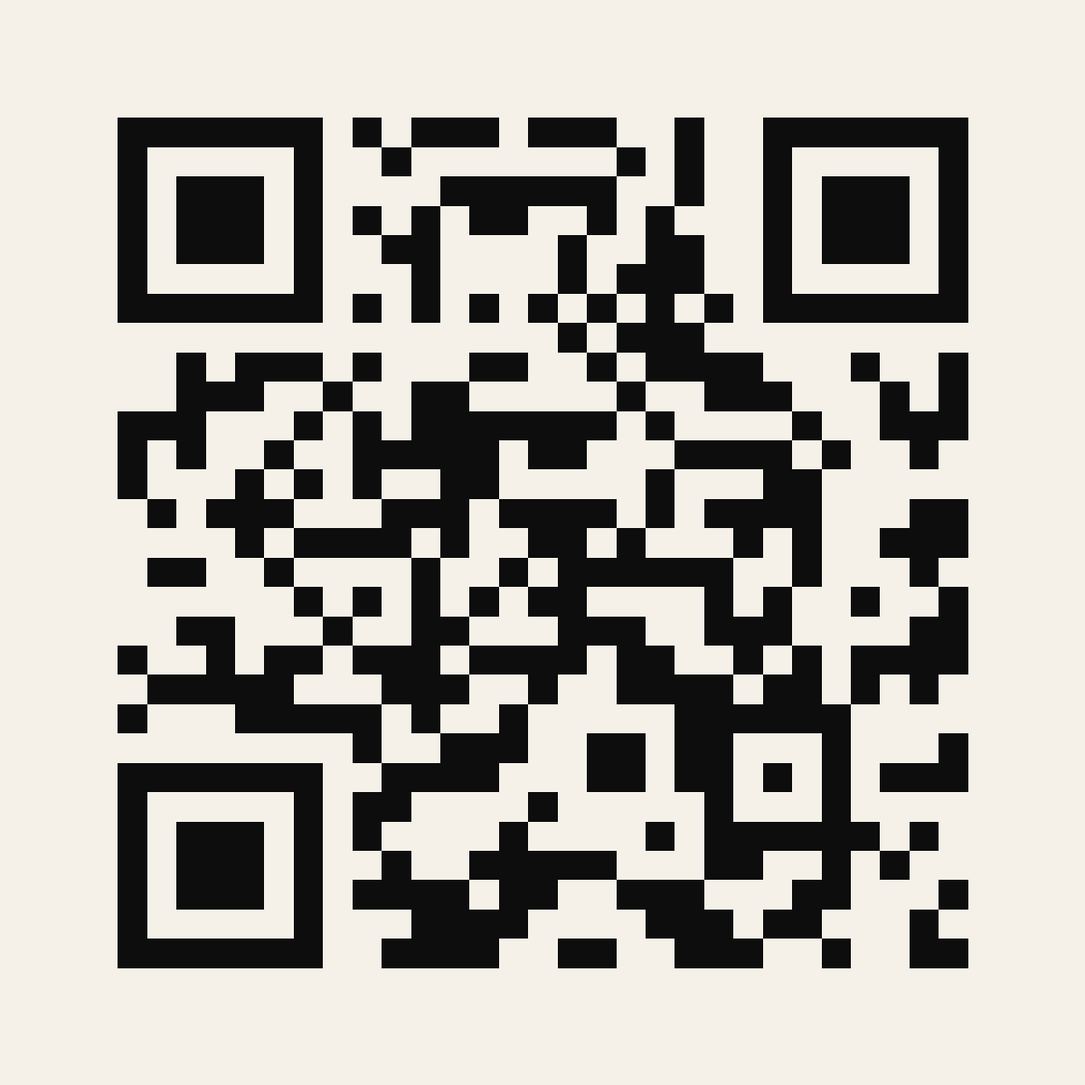
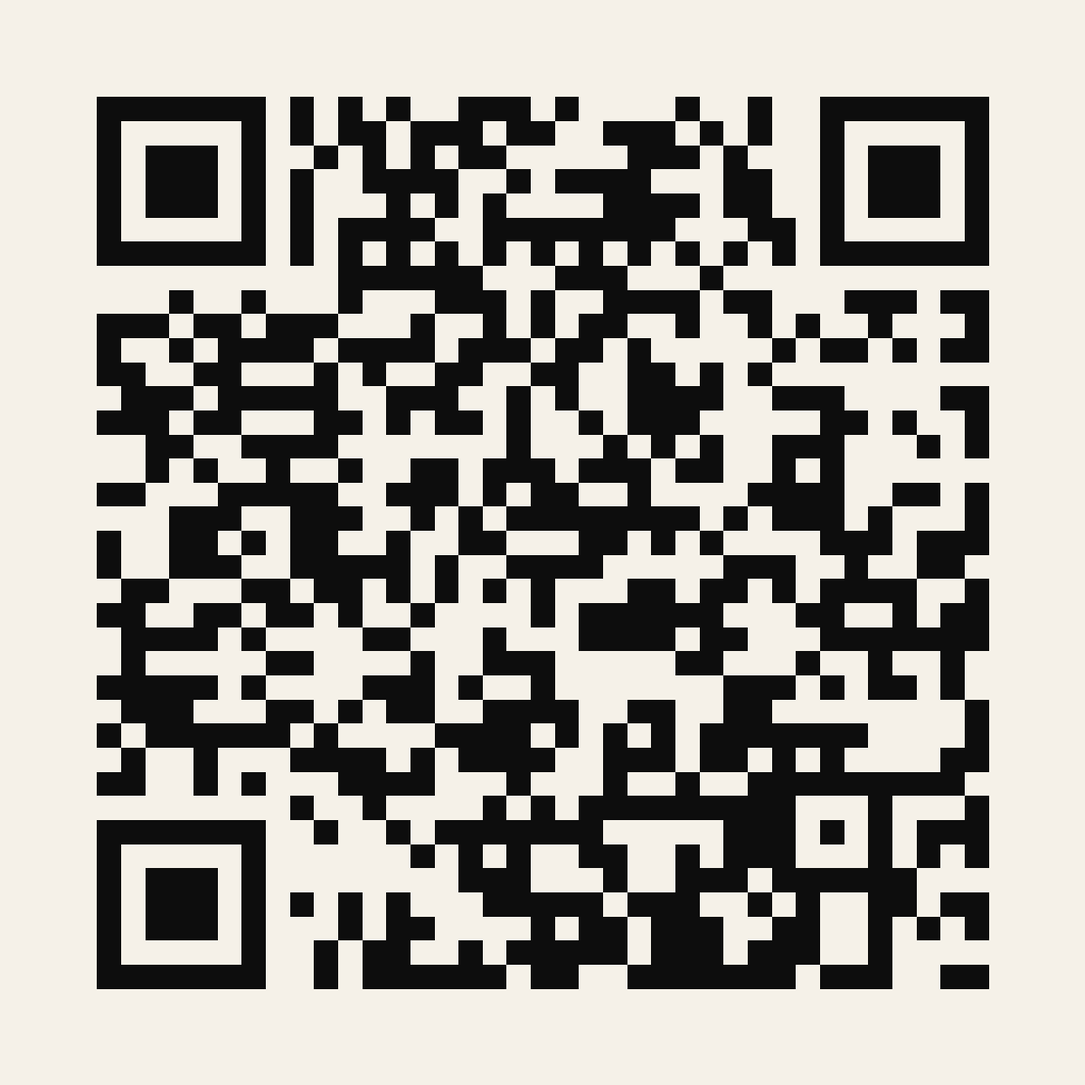
chore: finalize launch branding and content

diff --git a/src/content/es/site.ts b/src/content/es/site.ts
@@ -11,13 +11,13 @@ export const es = {
     helper: "¿Listo para pedir? Completa tu pedido para retiro de forma segura a través de Clover.",
   },
   hero: { eyebrow: "Argentine Grill & Bakery", title: [{ text: "El sabor", style: "default" }, { text: "argentino", style: "argentina" }, { text: "empieza en", style: "gold" }, { text: "el fuego.", style: "gold" }], description: "Parrilla, panadería y café hechos con tiempo, oficio y ese espíritu que convierte cada mesa en un encuentro.", primary: "Explora el menú", secondary: "Pedir para retirar" },
-  essence: { eyebrow: "Nuestra esencia", title: "Fuego, harina y tiempo.", body: "Celebramos una cocina honesta que nace de las brasas y continúa en el horno: cortes a la parrilla, empanadas, panes artesanales, café y mate para compartir.", quote: "La cocina no termina cuando sale el plato. Termina cuando la mesa se llena.", quoteBy: "Espíritu G.O.A.T. · Texto editorial pendiente de aprobación", pillars: [["Brasas", "Fuego real, tiempo preciso y sabores que hablan por sí solos."], ["Masa", "El oficio paciente de amasar, fermentar y hornear cada día."], ["Encuentro", "La mesa como lugar de pausa, conversación y comunidad."]] },
+  essence: { eyebrow: "Nuestra esencia", title: "Fuego, harina y tiempo.", body: "Celebramos una cocina honesta que nace de las brasas y continúa en el horno: cortes a la parrilla, empanadas, panes artesanales, café y mate para compartir.", quote: "La cocina no termina cuando sale el plato. Termina cuando la mesa se llena.", quoteBy: "G.O.A.T. Argentine Grill & Bakery", pillars: [["Brasas", "Fuego real, tiempo preciso y sabores que hablan por sí solos."], ["Masa", "El oficio paciente de amasar, fermentar y hornear cada día."], ["Encuentro", "La mesa como lugar de pausa, conversación y comunidad."]] },
   flavours: { eyebrow: "Lo que nos mueve", title: "Sabores con historia.", body: "De las brasas al horno, una mesa argentina donde hay lugar para todos.", items: ["Parrilla", "Empanadas", "Panadería", "Café y mate"] },
   story: { eyebrow: "Una mesa para compartir", title: "Tradición argentina, servida a nuestra manera.", body: "G.O.A.T. reúne el carácter de la parrilla con la calidez de una panadería de barrio. Cada detalle invita a bajar el ritmo, comer bien y sentirse parte." },
   promotions: { eyebrow: "Lo que está pasando", title: "Promociones y eventos.", viewAll: "Ver todo", empty: "No hay promociones ni eventos activos en este momento.", promotion: "Promoción", event: "Evento" },
-  visit: { eyebrow: "Ven a conocernos", title: "Tu lugar en la mesa.", address: "Dirección", hours: "Horarios", contact: "Contacto", pending: "Pendiente de confirmación del cliente." },
-  contact: { title: "Contáctanos", intro: "Envíanos un mensaje y nuestro equipo responderá lo antes posible.", name: "Nombre", email: "Correo electrónico", phone: "Teléfono (opcional)", subject: "Asunto", message: "Mensaje", consent: "Acepto que G.O.A.T. use estos datos para responder mi consulta.", submit: "Enviar mensaje", sending: "Enviando…", success: "Gracias, tu mensaje fue enviado.", genericError: "No pudimos enviar tu mensaje. Inténtalo nuevamente.", configError: "El correo de contacto aún no está configurado.", validation: "Revisa los campos indicados.", subjectOptions: ["Consulta general", "Evento privado", "Panadería", "Otro"] },
-  menu: { eyebrow: "La carta G.O.A.T.", title: "Menú restaurante", intro: "Explora nuestra selección actual. Los productos y precios fueron transcritos del PDF del cliente y pueden cambiar.", logoAlt: "Logo oficial de G.O.A.T. Argentine Grill & Bakery", restaurant: "Restaurante", bakery: "Panadería", index: "Ver categorías", pdf: "Ver / Descargar PDF", share: "Compartir menú", shared: "Enlace copiado", qrTitle: "Escanea para ver el menú", qrBody: "Abre la carta directamente en tu teléfono.", qrAlt: "Código QR para abrir la carta web de G.O.A.T.", qrDevelopment: "Solo desarrollo: este QR usa la URL provisional del sitio.", bakeryTitle: "Selección de panadería", bakeryBody: "Estamos preparando nuestro catálogo de panadería. Publicaremos aquí la selección confirmada próximamente.", provisional: "Traducción pendiente de aprobación del cliente" },
+  visit: { eyebrow: "Ven a conocernos", title: "Tu lugar en la mesa.", address: "Dirección", hours: "Horarios", contact: "Contacto", hoursComingSoon: "Horarios próximamente." },
+  contact: { title: "Contáctanos", intro: "Envíanos un mensaje y nuestro equipo responderá lo antes posible.", name: "Nombre", email: "Correo electrónico", phone: "Teléfono (opcional)", subject: "Asunto", subjectPlaceholder: "Selecciona un asunto", message: "Mensaje", consent: "Acepto que G.O.A.T. use estos datos para responder mi consulta.", submit: "Enviar mensaje", sending: "Enviando…", success: "Gracias, tu mensaje fue enviado.", genericError: "No pudimos enviar tu mensaje. Inténtalo nuevamente.", configError: "El formulario no está disponible temporalmente. Escríbenos directamente por correo electrónico.", validation: "Revisa los campos indicados.", subjectOptions: ["Consulta general", "Evento privado", "Panadería", "Otro"] },
+  menu: { eyebrow: "La carta G.O.A.T.", title: "Menú restaurante", intro: "Explora nuestra selección actual. Los productos y precios pueden cambiar.", logoAlt: "Logo oficial de G.O.A.T. Argentine Grill & Bakery", restaurant: "Restaurante", bakery: "Panadería", index: "Ver categorías", pdf: "Ver / Descargar PDF", share: "Compartir menú", shared: "Enlace copiado", qrTitle: "Escanea para ver el menú", qrBody: "Abre la carta directamente en tu teléfono.", qrAlt: "Código QR para abrir la carta web de G.O.A.T.", bakeryTitle: "Selección de panadería", bakeryBody: "Estamos preparando nuestro catálogo de panadería. Compartiremos la selección aquí próximamente." },
   footer: { description: "Parrilla argentina, panadería artesanal y café. Una mesa hecha para compartir.", explore: "Explora", connect: "Conecta", socialsPending: "Redes sociales próximamente.", back: "Volver arriba" },
   metadata: { homeTitle: "Parrilla Argentina y Panadería", homeDescription: "Parrilla argentina, panadería artesanal y café hechos para compartir.", menuTitle: "Menú Restaurante", menuDescription: "Explora la carta de G.O.A.T.: entradas, carnes a la parrilla, pastas, postres y bebidas.", promotionsTitle: "Promociones y Eventos", promotionsDescription: "Descubre promociones activas y próximos eventos de G.O.A.T. Argentine Grill & Bakery." },
 } as const satisfies DictionaryShape;

diff --git a/src/content/en/site.ts b/src/content/en/site.ts
@@ -33,7 +33,7 @@ export const en = {
     title: "Fire, flour and time.",
     body: "We celebrate honest cooking that begins over the coals and continues in the oven - grilled cuts, empanadas, artisan bread, coffee and mate made for sharing.",
     quote: "Cooking does not end when the plate leaves the kitchen. It ends when the table fills up.",
-    quoteBy: "G.O.A.T. - Argentine Grill & Bakery",
+    quoteBy: "G.O.A.T. Argentine Grill & Bakery",
     pillars: [
       ["Embers", "Real fire, precise timing and flavours that speak for themselves."],
       ["Dough", "The patient craft of kneading, fermenting and baking every day."],
@@ -43,9 +43,9 @@ export const en = {
   flavours: { eyebrow: "What moves us", title: "Flavours with a story.", body: "From grill to oven, an Argentine table with room for everyone.", items: ["Grill", "Empanadas", "Bakery", "Coffee & mate"] },
   story: { eyebrow: "A table to share", title: "Argentine tradition, served our way.", body: "G.O.A.T. brings the character of the grill together with the warmth of a neighbourhood bakery. Every detail invites you to slow down, eat well and feel at home." },
   promotions: { eyebrow: "What is happening", title: "Promotions & events.", viewAll: "See all", empty: "No active promotions or events right now.", promotion: "Promotion", event: "Event" },
-  visit: { eyebrow: "Come meet us", title: "Your place at the table.", address: "Address", hours: "Hours", contact: "Contact", pending: "To be confirmed by the client." },
-  contact: { title: "Contact us", intro: "Send us a message and our team will reply as soon as possible.", name: "Name", email: "Email", phone: "Phone (optional)", subject: "Subject", message: "Message", consent: "I agree that G.O.A.T. may use these details to answer my inquiry.", submit: "Send message", sending: "Sending…", success: "Thanks — your message was sent.", genericError: "We could not send your message. Please try again.", configError: "Contact email is not configured yet.", validation: "Please review the highlighted fields.", subjectOptions: ["General inquiry", "Private event", "Bakery", "Other"] },
-  menu: { eyebrow: "The G.O.A.T. menu", title: "Restaurant menu", intro: "Explore our current selection. Items and prices are transcribed from the client PDF and may change.", logoAlt: "G.O.A.T. Argentine Grill & Bakery official logo", restaurant: "Restaurant", bakery: "Bakery", index: "Browse categories", pdf: "View / Download PDF", share: "Share menu", shared: "Link copied", qrTitle: "Scan to view the menu", qrBody: "Open the menu directly on your phone.", qrAlt: "QR code to open the G.O.A.T. web menu", qrDevelopment: "Development only: this QR uses the provisional site URL.", bakeryTitle: "Bakery selection", bakeryBody: "Our bakery catalogue is being prepared. We will publish the confirmed selection here soon.", provisional: "Translation pending client approval" },
+  visit: { eyebrow: "Come meet us", title: "Your place at the table.", address: "Address", hours: "Hours", contact: "Contact", hoursComingSoon: "Hours coming soon." },
+  contact: { title: "Contact us", intro: "Send us a message and our team will reply as soon as possible.", name: "Name", email: "Email", phone: "Phone (optional)", subject: "Subject", subjectPlaceholder: "Select a subject", message: "Message", consent: "I agree that G.O.A.T. may use these details to answer my inquiry.", submit: "Send message", sending: "Sending…", success: "Thanks, your message was sent.", genericError: "We could not send your message. Please try again.", configError: "The contact form is temporarily unavailable. Please email us directly.", validation: "Please review the highlighted fields.", subjectOptions: ["General inquiry", "Private event", "Bakery", "Other"] },
+  menu: { eyebrow: "The G.O.A.T. menu", title: "Restaurant menu", intro: "Explore our current menu selection. Items and prices may change.", logoAlt: "G.O.A.T. Argentine Grill & Bakery official logo", restaurant: "Restaurant", bakery: "Bakery", index: "Browse categories", pdf: "View / Download PDF", share: "Share menu", shared: "Link copied", qrTitle: "Scan to view the menu", qrBody: "Open the menu directly on your phone.", qrAlt: "QR code to open the G.O.A.T. web menu", bakeryTitle: "Bakery selection", bakeryBody: "Our bakery catalogue is being prepared. We will share the selection here soon." },
   footer: { description: "Argentine grill, artisan bakery and coffee. A table made for sharing.", explore: "Explore", connect: "Connect", socialsPending: "Social links coming soon.", back: "Back to top" },
   metadata: { homeTitle: "Argentine Grill & Bakery", homeDescription: "Argentine grill, artisan bakery and coffee made for sharing.", menuTitle: "Restaurant Menu", menuDescription: "Explore the G.O.A.T. restaurant menu, from appetizers and grilled meats to pasta, desserts and drinks.", promotionsTitle: "Promotions & Events", promotionsDescription: "Discover active promotions and upcoming events at G.O.A.T. Argentine Grill & Bakery." },
 } as const;

diff --git a/src/components/menu-page.tsx b/src/components/menu-page.tsx
@@ -8,7 +8,7 @@ export function MenuPage({ locale }: { locale: Locale }) {
   return <main id="content" className="bg-ink text-ivory">
     <MenuHeader locale={locale} />
     <nav className="sticky top-0 z-20 border-b border-ivory/10 bg-ink/95 px-5 py-4 backdrop-blur" aria-label={locale === "en" ? "Menu areas" : "Áreas de la carta"}><div className="mx-auto flex max-w-7xl gap-7"><a className="text-xs font-bold uppercase tracking-[.18em] text-sky underline underline-offset-8" href="#restaurant">{copy.restaurant}</a><a className="text-xs font-bold uppercase tracking-[.18em] text-ivory/60 hover:text-ivory" href="#bakery">{copy.bakery}</a></div></nav>
-    <section id="restaurant" className="scroll-mt-20 px-5 py-16 sm:px-8 lg:px-12"><div className="mx-auto max-w-7xl"><p className="mb-8 text-sm text-gold">✦ {copy.provisional}</p><nav aria-label={copy.index} className="border-y border-ivory/10 py-5"><p className="mb-3 text-[.62rem] font-bold uppercase tracking-[.2em] text-ivory/40">{copy.index}</p><div className="flex gap-x-5 gap-y-3 overflow-x-auto pb-2 [scrollbar-width:thin]">{menuCategories.map((category) => <a className="shrink-0 text-xs font-semibold text-sky-light hover:text-sky" href={`#${category.id}`} key={category.id}>{category.title[locale]}</a>)}</div></nav><div className="mt-8 grid gap-x-16 lg:grid-cols-2">{menuCategories.map((category) => <section id={category.id} key={category.id} className="scroll-mt-24 border-b border-ivory/10 py-12"><h2 className="font-display text-5xl tracking-wide text-gold">{category.title[locale]}</h2>{category.description && <p className="mt-2 text-sm leading-6 text-ivory/50">{category.description[locale]}</p>}<ul className="mt-7 space-y-7">{category.items.filter((entry) => entry.available !== false).map((entry) => <li key={entry.id}><div className="flex items-start gap-4"><h3 className="min-w-0 flex-1 text-sm font-bold uppercase tracking-[.06em]">{entry.name[locale]}{entry.provisional && <span className="ml-1 text-gold" title={copy.provisional}>✦</span>}</h3>{entry.price && <span className="shrink-0 font-semibold tabular-nums text-sky-light">{entry.price}</span>}</div>{entry.description && <p className="mt-2 max-w-xl text-sm leading-6 text-ivory/55">{entry.description[locale]}</p>}</li>)}</ul></section>)}</div></div></section>
+    <section id="restaurant" className="scroll-mt-20 px-5 py-16 sm:px-8 lg:px-12"><div className="mx-auto max-w-7xl"><nav aria-label={copy.index} className="border-y border-ivory/10 py-5"><p className="mb-3 text-[.62rem] font-bold uppercase tracking-[.2em] text-ivory/40">{copy.index}</p><div className="flex gap-x-5 gap-y-3 overflow-x-auto pb-2 [scrollbar-width:thin]">{menuCategories.map((category) => <a className="shrink-0 text-xs font-semibold text-sky-light hover:text-sky" href={`#${category.id}`} key={category.id}>{category.title[locale]}</a>)}</div></nav><div className="mt-8 grid gap-x-16 lg:grid-cols-2">{menuCategories.map((category) => <section id={category.id} key={category.id} className="scroll-mt-24 border-b border-ivory/10 py-12"><h2 className="font-display text-5xl tracking-wide text-gold">{category.title[locale]}</h2>{category.description && <p className="mt-2 text-sm leading-6 text-ivory/50">{category.description[locale]}</p>}<ul className="mt-7 space-y-7">{category.items.filter((entry) => entry.available !== false).map((entry) => <li key={entry.id}><div className="flex items-start gap-4"><h3 className="min-w-0 flex-1 text-sm font-bold uppercase tracking-[.06em]">{entry.name[locale]}</h3>{entry.price && <span className="shrink-0 font-semibold tabular-nums text-sky-light">{entry.price}</span>}</div>{entry.description && <p className="mt-2 max-w-xl text-sm leading-6 text-ivory/55">{entry.description[locale]}</p>}</li>)}</ul></section>)}</div></div></section>
     <section id="bakery" className="scroll-mt-20 border-t border-gold/30 bg-ivory px-5 py-24 text-ink sm:px-8 lg:px-12"><div className="mx-auto max-w-7xl"><p className="text-xs font-bold uppercase tracking-[.22em] text-blue-deep">{copy.bakery}</p><h2 className="mt-4 font-display text-6xl">{copy.bakeryTitle}</h2><p className="mt-5 max-w-2xl text-base leading-7 text-ink/65">{copy.bakeryBody}</p></div></section>
   </main>;
 }

diff --git a/src/components/home-page.tsx b/src/components/home-page.tsx
@@ -22,7 +22,7 @@ export async function HomePage({ locale }: { locale: Locale }) {
     <section className="bg-ink-soft px-5 py-24 sm:px-8 lg:px-12"><div className="mx-auto max-w-7xl"><SectionHeading eyebrow={copy.flavours.eyebrow} title={copy.flavours.title} body={copy.flavours.body} dark /><div className="mt-12 grid gap-4 sm:grid-cols-2 lg:grid-cols-4">{copy.flavours.items.map((title, index) => <article key={title} className="group relative min-h-80 overflow-hidden bg-ink"><Image src={images[index]} alt="" fill sizes="(max-width: 640px) 100vw, 25vw" className="object-cover transition-transform duration-700 group-hover:scale-105" /><div className="absolute inset-0 bg-gradient-to-t from-ink via-transparent" /><h3 className="absolute bottom-6 left-6 font-display text-4xl text-ivory">{title}</h3></article>)}</div></div></section>
     <section id="experience" className="grid bg-ivory text-ink lg:grid-cols-2"><div className="relative min-h-96 lg:min-h-[38rem]"><Image src="/images/restaurant-experience.png" alt={locale === "en" ? "Friends sharing a meal by the grill" : "Amigos compartiendo una comida junto a la parrilla"} fill sizes="(max-width:1024px) 100vw, 50vw" className="object-cover" /></div><div className="flex items-center px-5 py-20 sm:px-10 lg:px-16"><SectionHeading eyebrow={copy.story.eyebrow} title={copy.story.title} body={copy.story.body} /></div></section>
     {promotions.length > 0 && <section className="bg-ink px-5 py-24 sm:px-8 lg:px-12"><div className="mx-auto max-w-7xl"><div className="mb-12 flex flex-wrap items-end justify-between gap-5"><SectionHeading eyebrow={copy.promotions.eyebrow} title={copy.promotions.title} dark /><Link className="text-xs font-bold uppercase tracking-[.18em] text-sky underline underline-offset-4" href={localizedPath(locale, "promotions")}>{copy.promotions.viewAll}</Link></div><PromotionsGrid items={promotions} locale={locale} /></div></section>}
-    <section id="visit" className="bg-ink-soft px-5 py-24 sm:px-8 lg:px-12"><div className="mx-auto max-w-7xl"><SectionHeading eyebrow={copy.visit.eyebrow} title={copy.visit.title} dark /><div className="mt-12 grid gap-5 md:grid-cols-3">{[[copy.visit.address, businessDetails.address], [copy.visit.hours, businessDetails.openingHours.join(" · ")], [copy.visit.contact, businessDetails.phone || businessDetails.email]].map(([label, value]) => <article key={label} className="border-t border-gold/50 pt-5"><h3 className="text-xs font-bold uppercase tracking-[.2em] text-gold">{label}</h3><p className="mt-4 text-sm leading-6 text-ivory/65">{value || copy.visit.pending}</p></article>)}</div></div></section>
+    <section id="visit" className="bg-ink-soft px-5 py-24 sm:px-8 lg:px-12"><div className="mx-auto max-w-7xl"><SectionHeading eyebrow={copy.visit.eyebrow} title={copy.visit.title} dark /><div className="mt-12 grid gap-5 md:grid-cols-3">{[[copy.visit.address, businessDetails.address], [copy.visit.hours, businessDetails.openingHours.join(" · ") || copy.visit.hoursComingSoon], [copy.visit.contact, businessDetails.phone || businessDetails.email]].filter((entry): entry is [string, string] => Boolean(entry[1])).map(([label, value]) => <article key={label} className="border-t border-gold/50 pt-5"><h3 className="text-xs font-bold uppercase tracking-[.2em] text-gold">{label}</h3><p className="mt-4 text-sm leading-6 text-ivory/65">{value}</p></article>)}</div></div></section>
     <ContactForm locale={locale} />
   </main>;
 }

diff --git a/src/content/menu.ts b/src/content/menu.ts
@@ -19,7 +19,7 @@ export const menuCategories: MenuCategory[] = [
     description: text("To snack and share", "Para picar y compartir"),
     items: [
       item("beef-carpaccio", "Beef tenderloin carpaccio", "Carpaccio de lomo de res", "$17.99", text("Thin slices of tenderloin, seasoned and presented G.O.A.T. style.", "Finas láminas de lomo, sazonadas y presentadas al estilo G.O.A.T."), true),
-      item("picada", "Simple picada", "Picada simple", "$17.99", text("Four cheeses, salami and prosciutto. The heading also mentions nuts and bread; confirmation required.", "Selección de cuatro quesos, salame y jamón crudo. El título también menciona frutos secos y pan; requiere confirmación."), true),
+      item("picada", "Simple picada", "Picada simple", "$17.99", text("Four cheeses, salami, prosciutto, nuts and bread.", "Selección de cuatro quesos, salame, jamón crudo, frutos secos y pan."), true),
       item("goat-salad", "G.O.A.T. salad", "Ensalada G.O.A.T.", "$15.99", text("Mixed greens, berries, hearts of palm, Parmesan and grilled beef.", "Mix de hojas verdes, berries, palmitos, queso parmesano y carne asada."), true),
       item("tongue-vinaigrette", "Tongue vinaigrette", "Lengua a la vinagreta", "$11.99", text("Thin cuts of beef tongue seasoned with vinegar and G.O.A.T. spices.", "Finos cortes de lengua de res, sazonados en vinagre y especias G.O.A.T."), true),
       item("choripapas", "Choripapas", "Choripapas", "$13.99", text("Sliced Argentine chorizo with roasted peppers and fries.", "Chorizo argentino laminado con pimientos asados y papas fritas."), true),
@@ -29,7 +29,7 @@ export const menuCategories: MenuCategory[] = [
   {
     id: "empanadas",
     title: text("Empanadas", "Empanadas"),
-    description: text("Each $3.49 · dozen price requires confirmation", "Cada una $3.49 · precio de docena por confirmar"),
+    description: text("$3.49 each", "$3.49 cada una"),
     items: [
       item("empanada-cheese", "Cheese", "Queso", "$3.49 each", undefined, true),
       item("empanada-ham-cheese", "Ham & cheese", "Jamón y queso", "$3.49 each", undefined, true),
@@ -189,7 +189,7 @@ export const menuCategories: MenuCategory[] = [
       item("mate-cocido", "Mate cocido", "Mate cocido", "$2.50", undefined, true),
       item("boldo-tea", "Boldo tea", "Té de boldo", "$2.50", undefined, true),
       item("green-tea", "Green tea", "Té verde", "$2.50"),
-      item("mate-service", "Mate service", "Servicio de mates", "$5.99", text("Hot-water refill, yerba mate and sugar or sweetener; mate set wording requires confirmation.", "Refill de agua caliente, hierba y azúcar o endulzante; texto sobre equipo de mate por confirmar."), true),
+      item("mate-service", "Mate service", "Servicio de mates", "$5.99", text("Includes hot-water refills, yerba mate and sugar or sweetener.", "Incluye recargas de agua caliente, yerba mate y azúcar o endulzante."), true),
     ],
   },
 ];

diff --git a/src/components/contact-form.tsx b/src/components/contact-form.tsx
@@ -27,7 +27,7 @@ export function ContactForm({ locale }: { locale: Locale }) {
     <label className="text-sm font-semibold">{copy.name}<input className={field} name="name" required maxLength={80} aria-invalid={Boolean(state.errors?.name)} aria-describedby={state.errors?.name ? "name-error" : undefined} />{state.errors?.name && <span id="name-error" className="mt-1 block text-xs text-red-800">{state.errors.name}</span>}</label>
     <label className="text-sm font-semibold">{copy.email}<input className={field} name="email" type="email" required maxLength={254} aria-invalid={Boolean(state.errors?.email)} />{state.errors?.email && <span className="mt-1 block text-xs text-red-800">{state.errors.email}</span>}</label>
     <label className="text-sm font-semibold">{copy.phone}<input className={field} name="phone" type="tel" maxLength={40} /></label>
-    <label className="text-sm font-semibold">{copy.subject}<select className={field} name="subject" required defaultValue=""><option value="" disabled>—</option>{copy.subjectOptions.map((option) => <option key={option}>{option}</option>)}</select>{state.errors?.subject && <span className="mt-1 block text-xs text-red-800">{state.errors.subject}</span>}</label>
+    <label className="text-sm font-semibold">{copy.subject}<select className={field} name="subject" required defaultValue=""><option value="" disabled>{copy.subjectPlaceholder}</option>{copy.subjectOptions.map((option) => <option key={option}>{option}</option>)}</select>{state.errors?.subject && <span className="mt-1 block text-xs text-red-800">{state.errors.subject}</span>}</label>
     <label className="text-sm font-semibold sm:col-span-2">{copy.message}<textarea className={`${field} min-h-36 resize-y`} name="message" required minLength={10} maxLength={3000} />{state.errors?.message && <span className="mt-1 block text-xs text-red-800">{state.errors.message}</span>}</label>
     <label className="absolute -left-[9999px]" aria-hidden="true">Website<input name="website" tabIndex={-1} autoComplete="off" /></label>
     <label className="flex items-start gap-3 text-sm leading-6 sm:col-span-2"><input className="mt-1 size-4 accent-blue-deep" type="checkbox" name="consent" required />{copy.consent}</label>{state.errors?.consent && <span className="text-xs text-red-800 sm:col-span-2">{state.errors.consent}</span>}

diff --git a/src/components/menu-header.tsx b/src/components/menu-header.tsx
@@ -7,7 +7,6 @@ import type { Locale } from "@/types/site";
 export function MenuHeader({ locale }: { locale: Locale }) {
   const copy = getDictionary(locale).menu;
   const ordering = getDictionary(locale).ordering;
-  const showDevelopmentNotice = process.env.NODE_ENV === "development" && siteConfig.isProvisionalUrl;
 
   return (
     <header id="top" className="border-b border-ivory/10 px-5 py-16 sm:px-8 sm:py-20 lg:px-12">
@@ -29,7 +28,6 @@ export function MenuHeader({ locale }: { locale: Locale }) {
           <figcaption className="mt-4">
             <strong className="block font-display text-2xl tracking-wide">{copy.qrTitle}</strong>
             <span className="mt-1 block text-xs leading-5 text-ink/60">{copy.qrBody}</span>
-            {showDevelopmentNotice && <span className="mt-2 block text-[.65rem] leading-4 text-red-800">{copy.qrDevelopment}</span>}
           </figcaption>
         </figure>
       </div>

diff --git a/src/config/site.ts b/src/config/site.ts
@@ -6,14 +6,12 @@ export const siteConfig = {
   name: "G.O.A.T.",
   fullName: "G.O.A.T. Argentine Grill & Bakery",
   siteUrl: configuredUrl || "https://goatrestaurantsutah.com",
-  isProvisionalUrl: !configuredUrl,
   menuQrPath: "/qr/goat-menu-qr.png",
   menuPdfPath: "/menu/goat-menu.pdf",
   brandLogoPath: "/brand/goat-logo-transparent.png",
   cloverOrderingUrl: "https://goat-argentine-grill-orem.cloveronline.com/",
 } as const;
 
-// TODO(client): Complete every null/empty value before launch.
 export const businessDetails: BusinessDetails = {
   address: "845 North 100 West, Suite 104, Orem, UT 84057",
   phone: "(801) 548-7910",

diff --git a/README.md b/README.md
@@ -78,7 +78,7 @@ The in-memory limit is per runtime instance; high-traffic or multi-region deploy
 
 The official circular source is kept at `docs/brand-source/goat-logo.png`. It is a 1024×1024 RGBA PNG with real transparency, so it was copied without pixel changes to `public/brand/goat-logo-transparent.png`; matching SHA-256 hashes confirm that the public asset is byte-identical to the client source. Next.js optimizes delivery through `next/image`.
 
-The logo is used as the primary mark above the localized menu title and as a discreet 80 px footer mark. The compact textual wordmark remains in the navbar to preserve its approved height. The existing simplified favicon remains in use because the detailed circular artwork and fine lettering do not reproduce reliably at small favicon sizes. Replace the source and public files together if the client later supplies a final SVG or revised transparent PNG, keeping the same square proportions and transparent exterior.
+The logo is used in the navbar, as the primary mark above the localized menu title and as a discreet 80 px footer mark. The existing simplified favicon remains in use because the detailed circular artwork and fine lettering do not reproduce reliably at small favicon sizes. Replace the source and public files together if a final SVG or revised transparent PNG becomes available, keeping the same square proportions and transparent exterior.
 
 ## QR generation
 
@@ -89,7 +89,7 @@ $env:NEXT_PUBLIC_SITE_URL='https://your-real-domain.example'
 npm run qr:generate
 ```
 
-This encodes `NEXT_PUBLIC_SITE_URL + /menu`. The committed provisional files encode `https://example.com/menu` and **must be regenerated before launch or print**. The provisional URL is never rendered in the production interface; development shows a local-only warning. Prefer SVG for print, preserve the quiet zone, print at least 25 mm wide, avoid distortion, and test the final physical proof on multiple phones.
+This encodes `NEXT_PUBLIC_SITE_URL + /menu`. The committed files encode `https://goatrestaurantsutah.com/menu`. Regenerate them whenever the public site URL changes. Prefer SVG for print, preserve the quiet zone, print at least 25 mm wide, avoid distortion, and test the final physical proof on multiple phones.
 
 ## Validation
 

diff --git a/docs/menu-content-review.md b/docs/menu-content-review.md
@@ -49,4 +49,4 @@ The website preserves prices as strings and marks draft translations with `provi
 
 ## Translation status
 
-All English menu translations are working drafts derived from the Spanish PDF, not client-approved commercial copy. Items marked with `provisional: true` in `src/content/menu.ts` display a visible marker. The client should approve culinary terminology, descriptions and prices before launch.
+All English menu translations are working drafts derived from the Spanish PDF, not client-approved commercial copy. Items marked with `provisional: true` in `src/content/menu.ts` retain that status for internal review without displaying it to visitors. Culinary terminology, descriptions and prices should be reviewed before launch.
